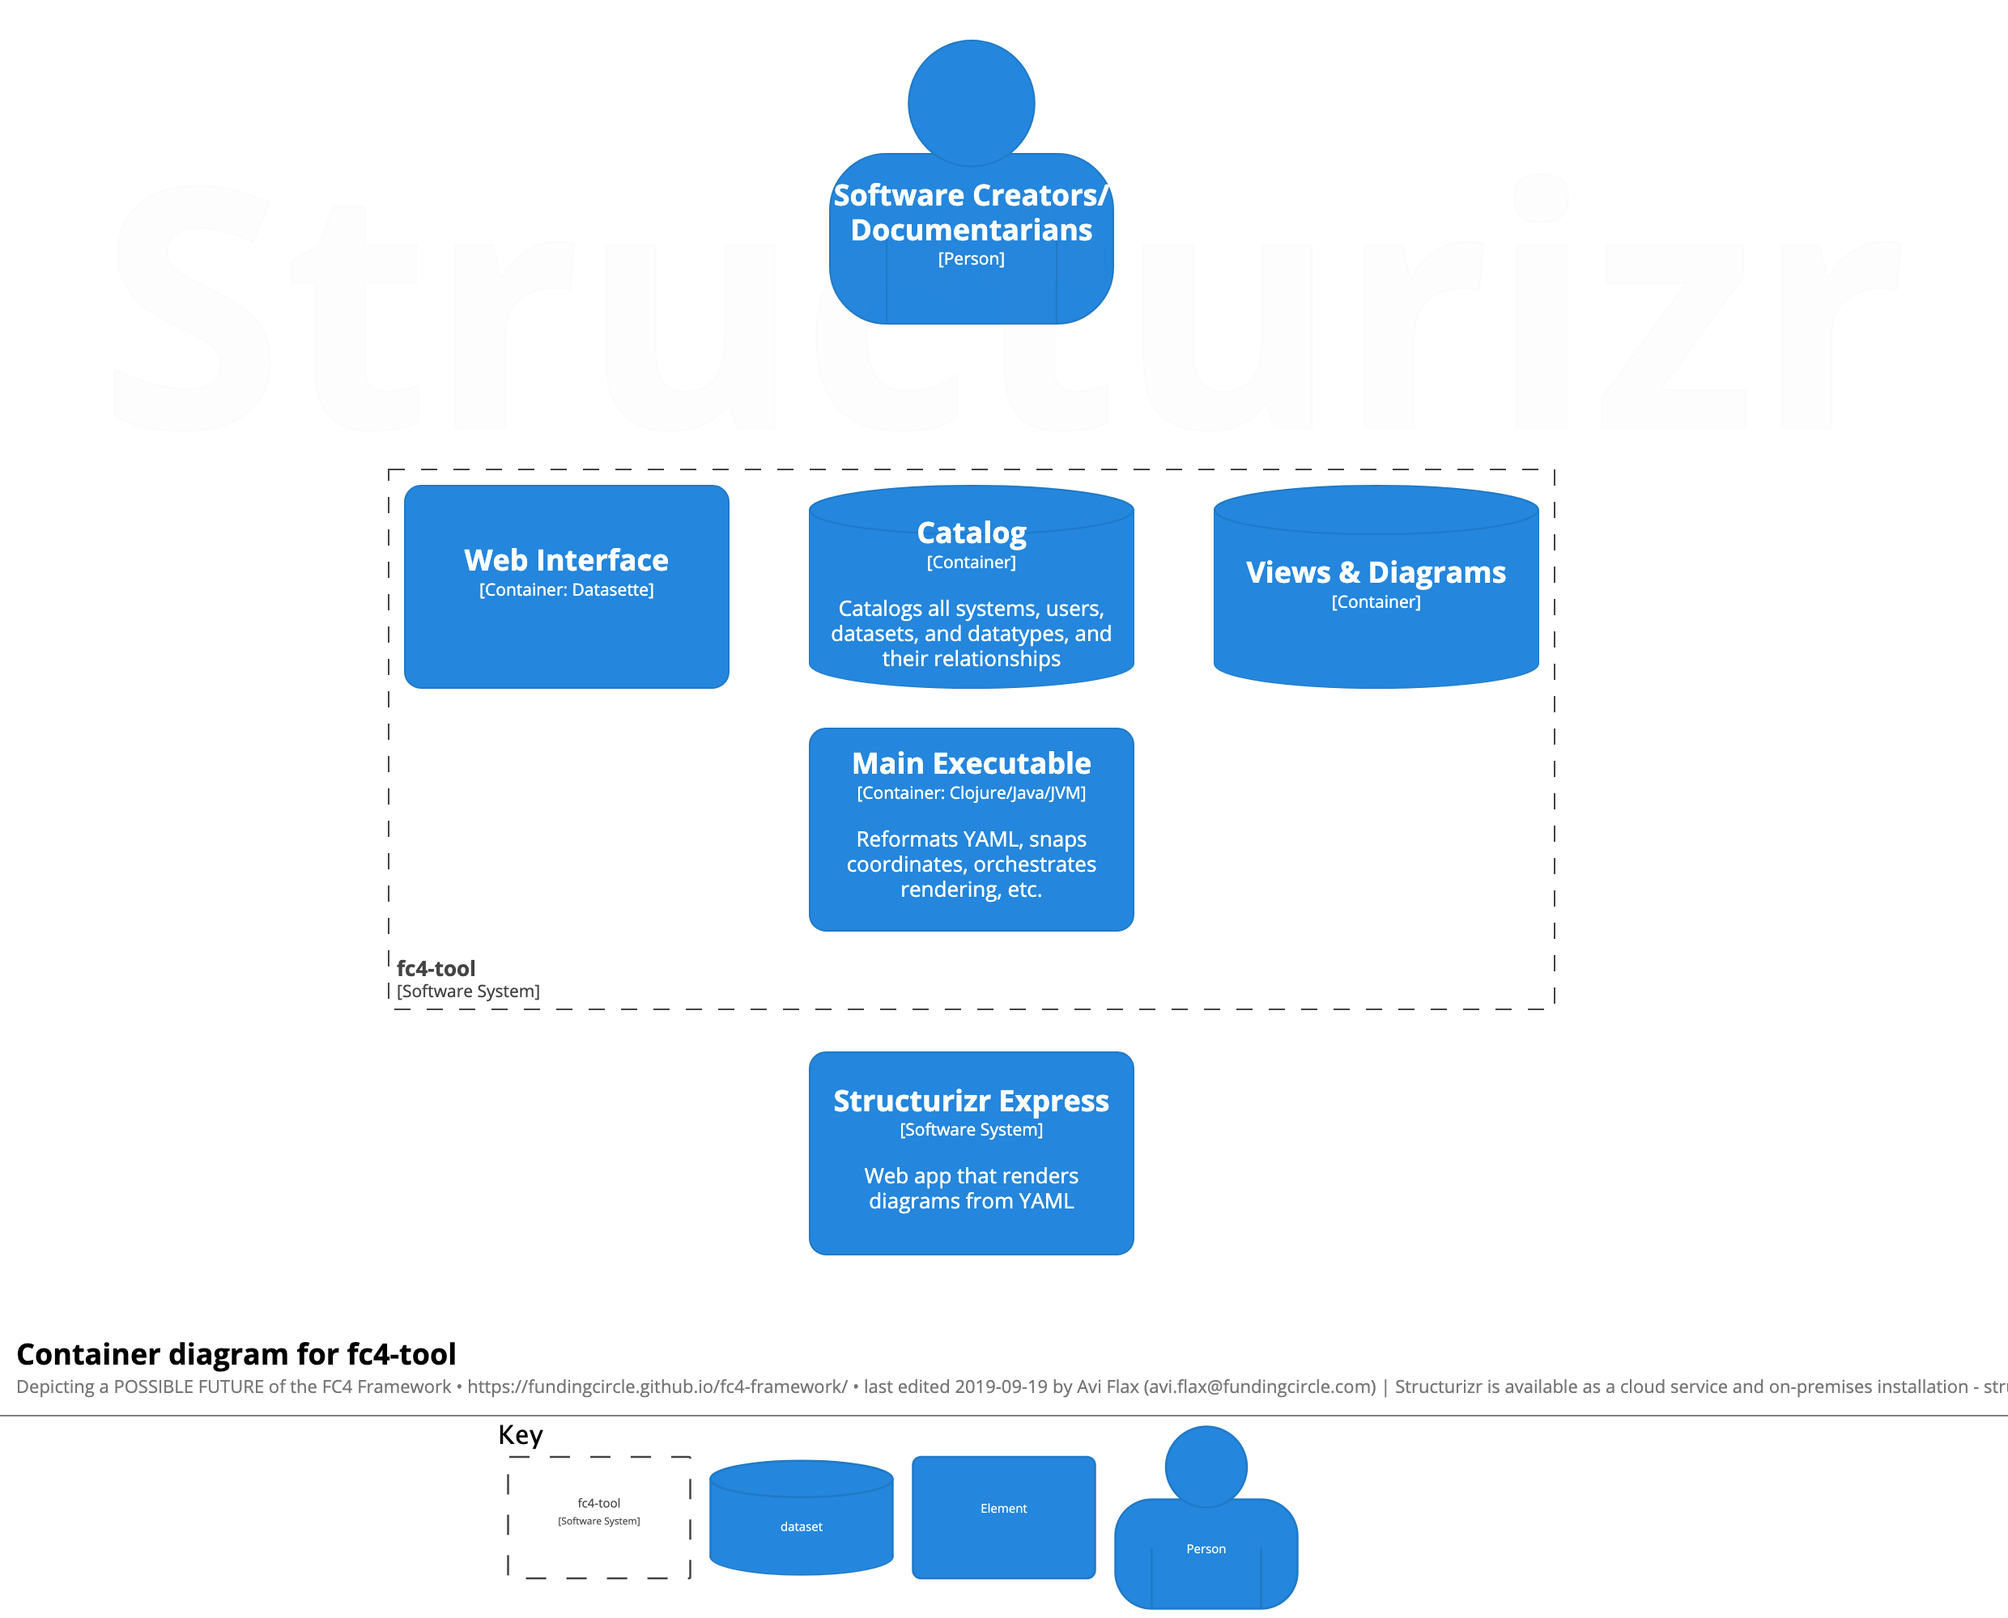
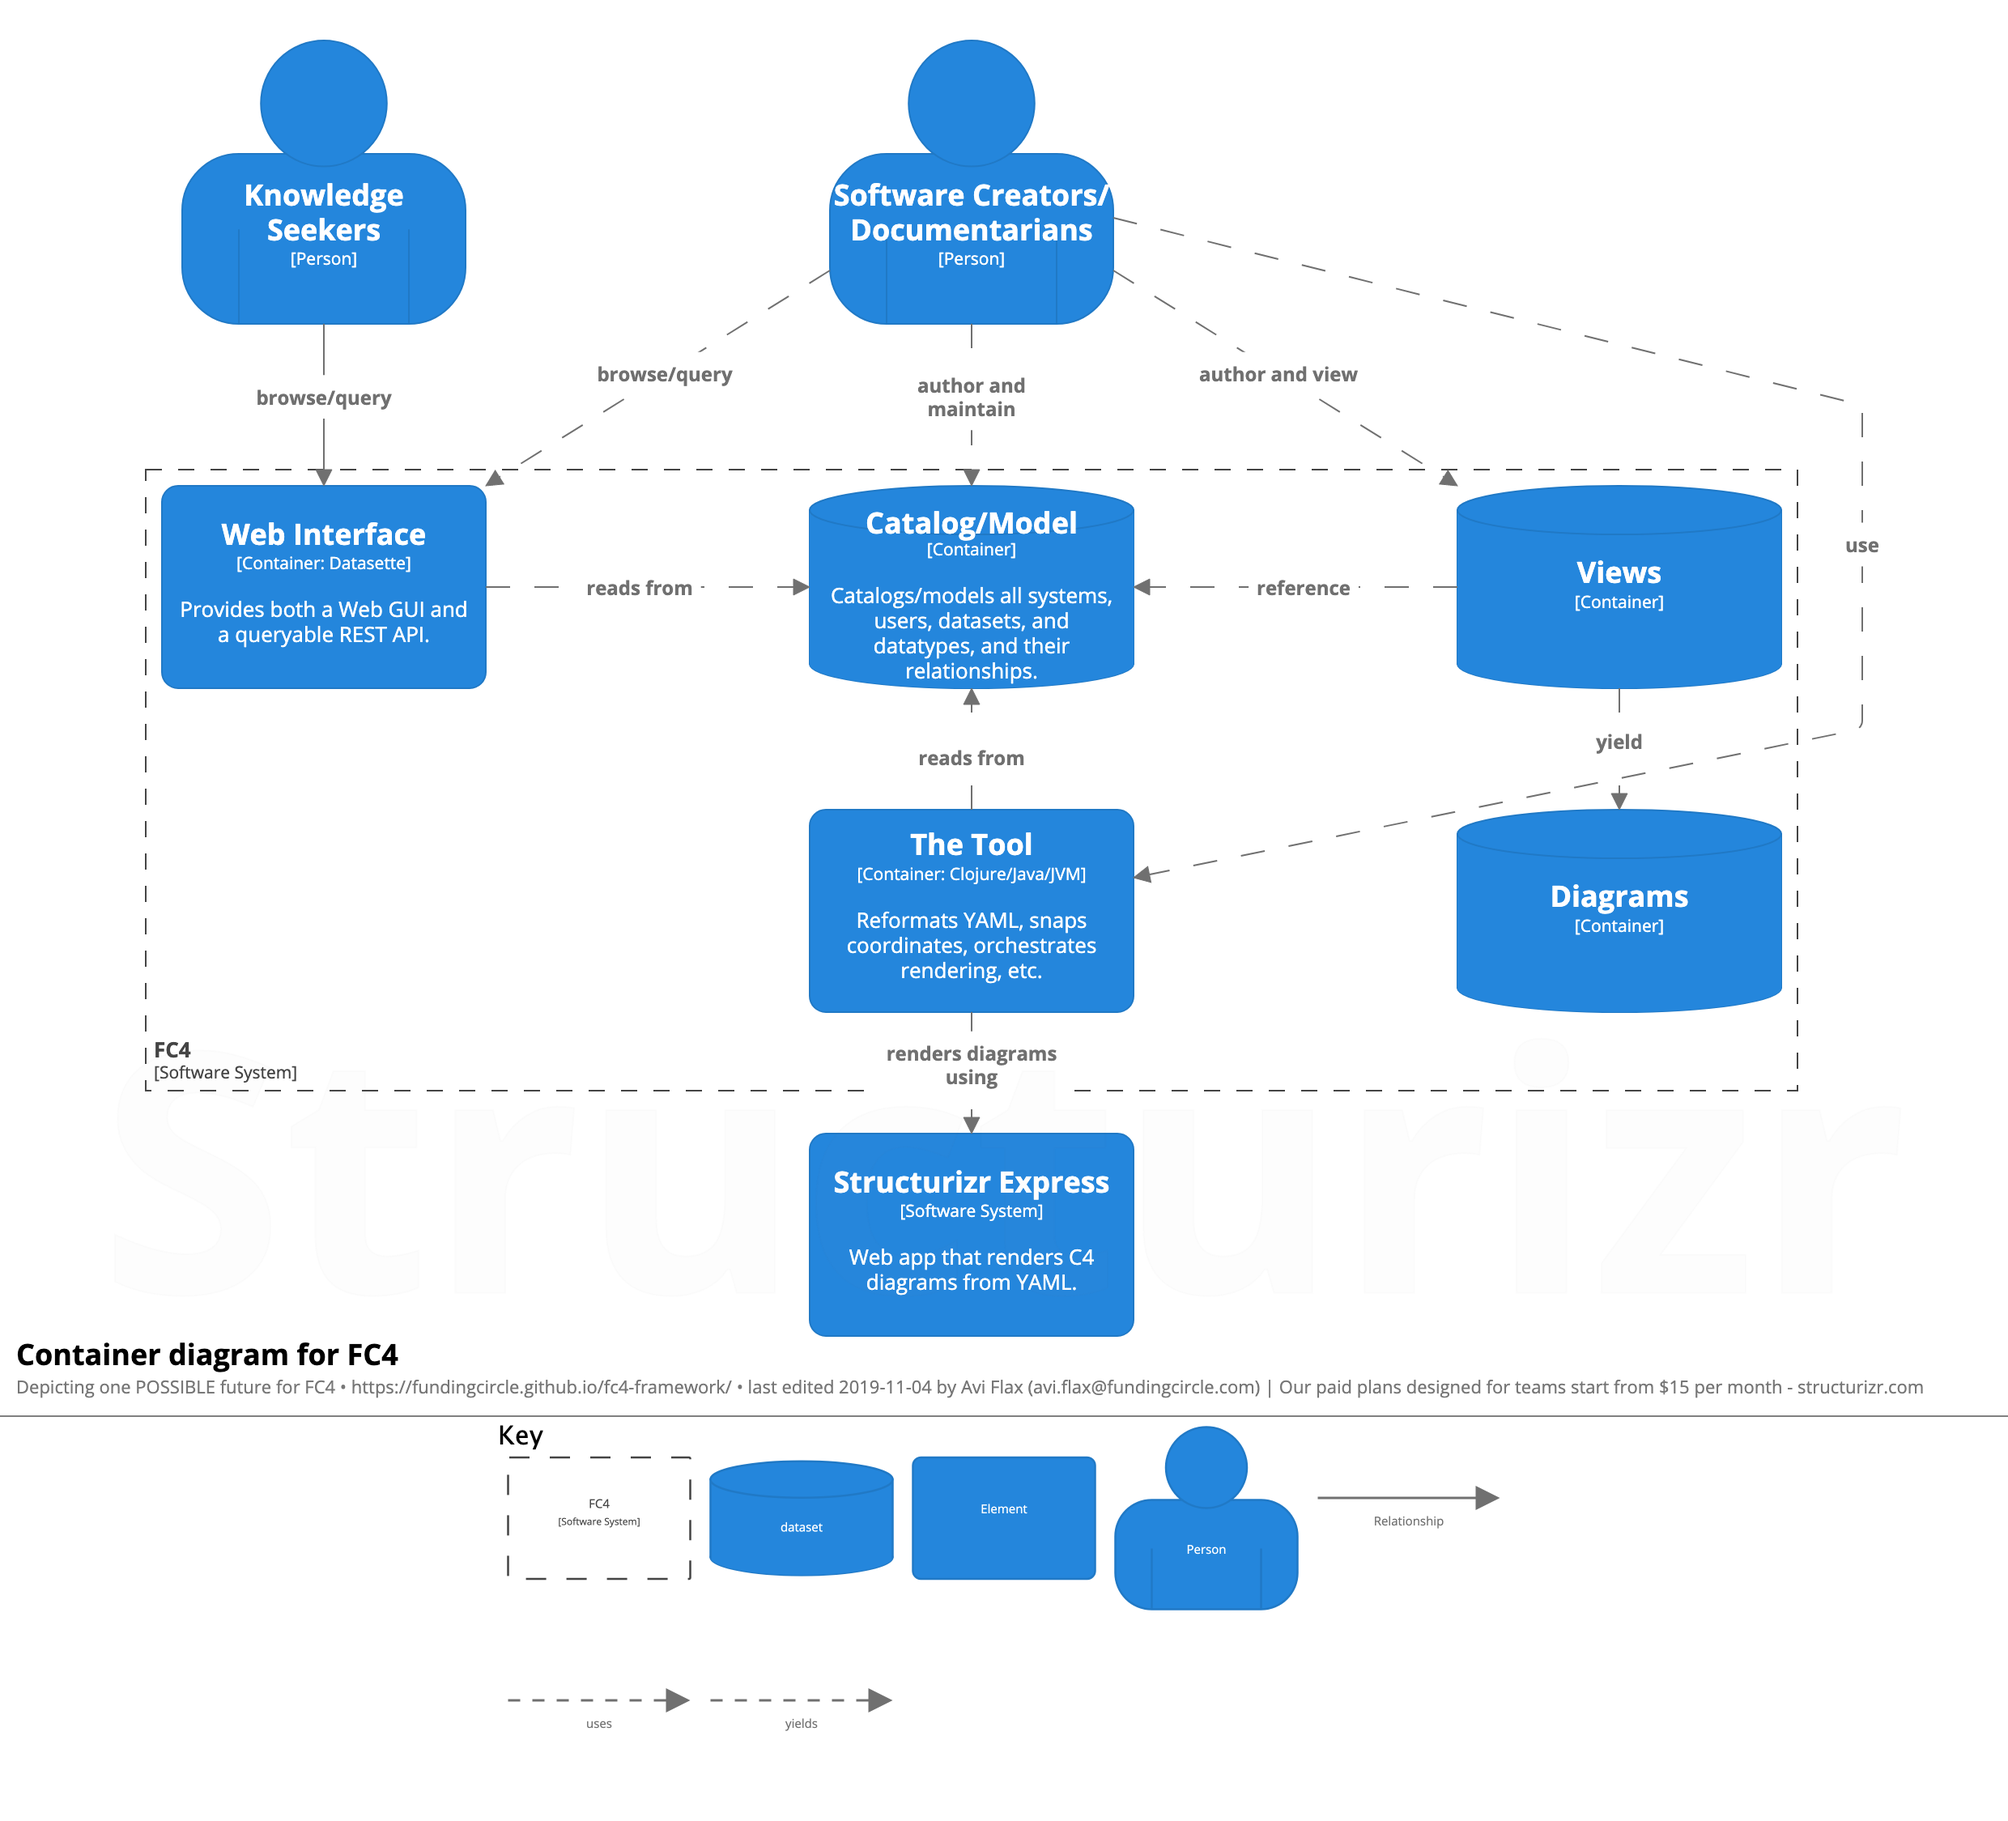
WIP++

diff --git a/docs/index.md b/docs/index.md
@@ -9,11 +9,11 @@
   <figcaption>Example: a container diagram of fc4-tool.</figcaption>
 </figure>
 
-FC4 is a tool for cataloguing and documenting software systems.
+FC4 is a tool for cataloguing, modeling, and documenting software systems.
 
 It facilitates the collaborative and efficient authoring, publishing, and maintainence of:
 
-* a browseable and queryable central catalog of software systems
+* a browseable and queryable central catalog/model of software systems
 * software architecture diagrams
 
 (TO ADD: an image, something about the components, and a link to the getting started guide (tutorial))
